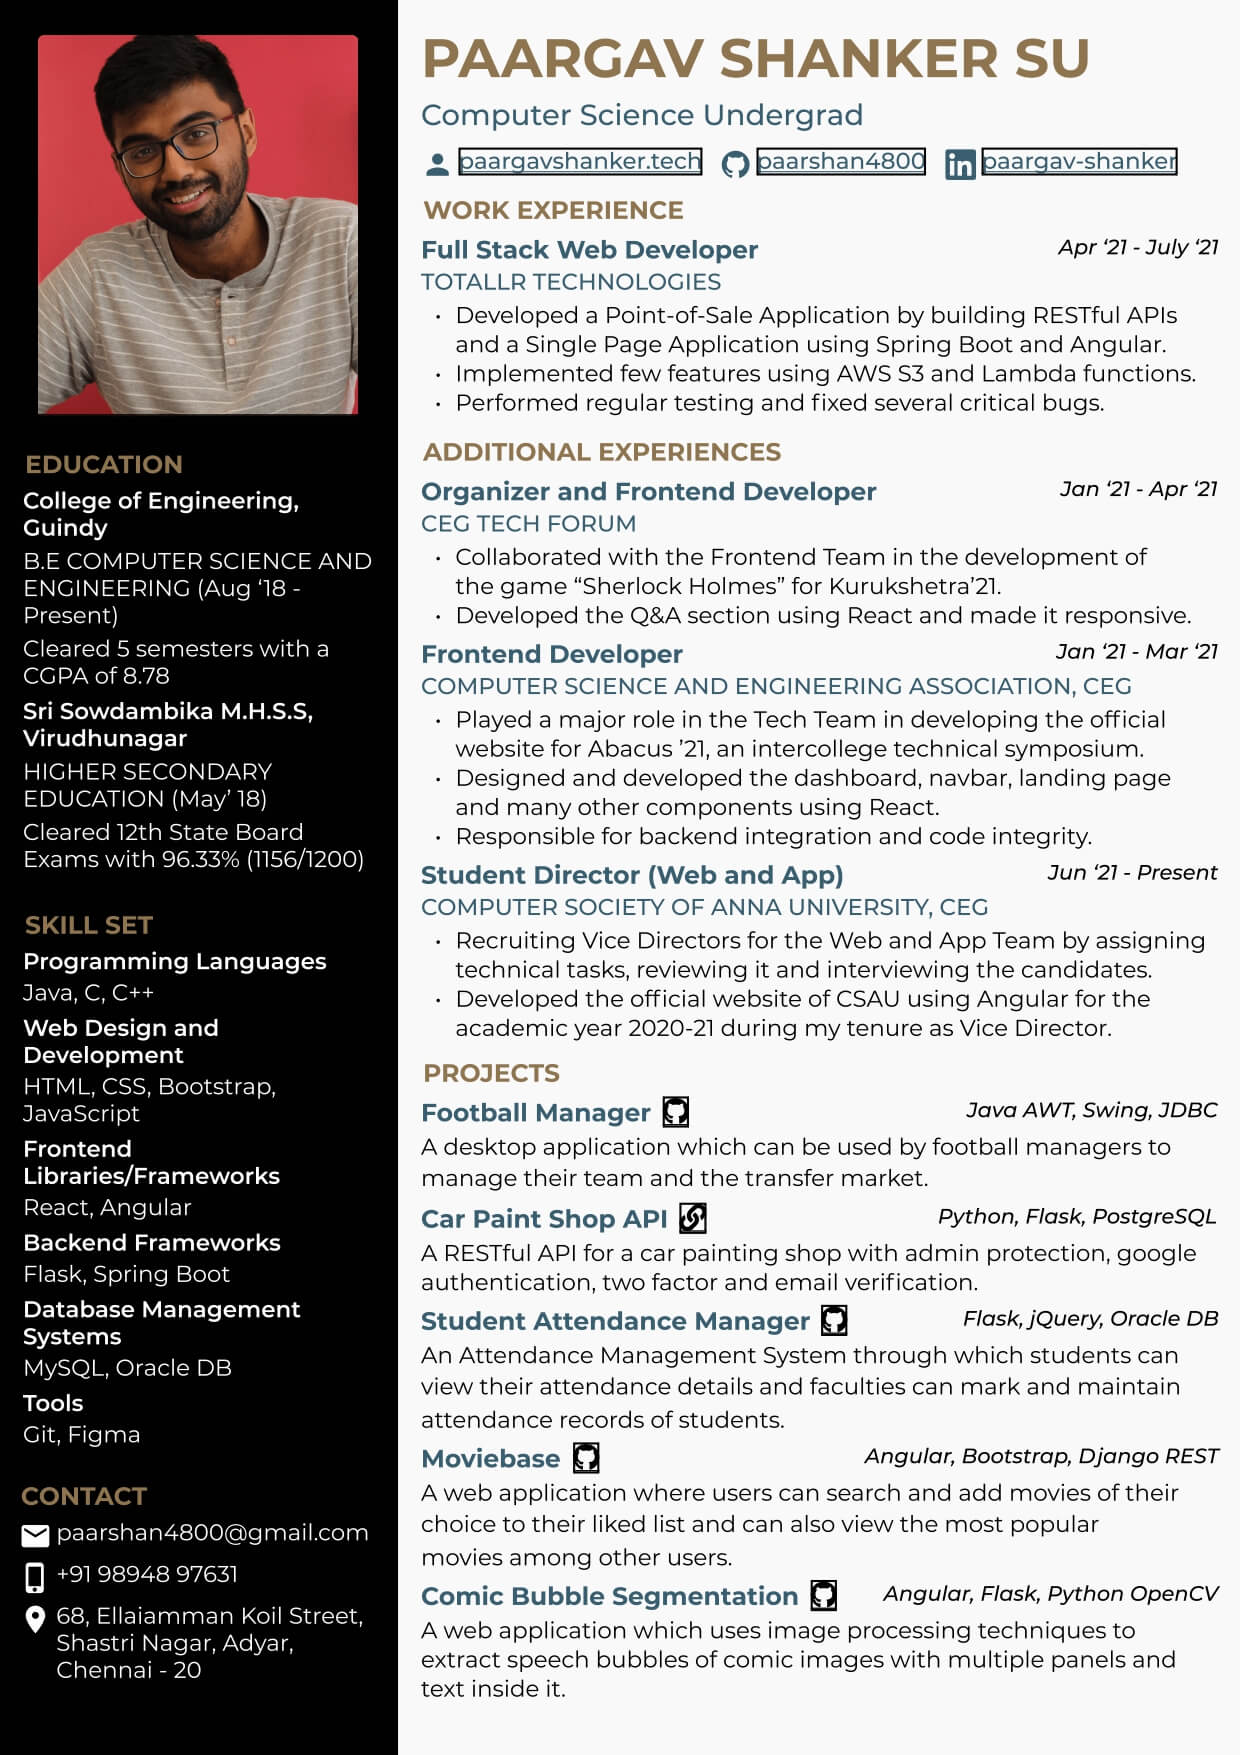
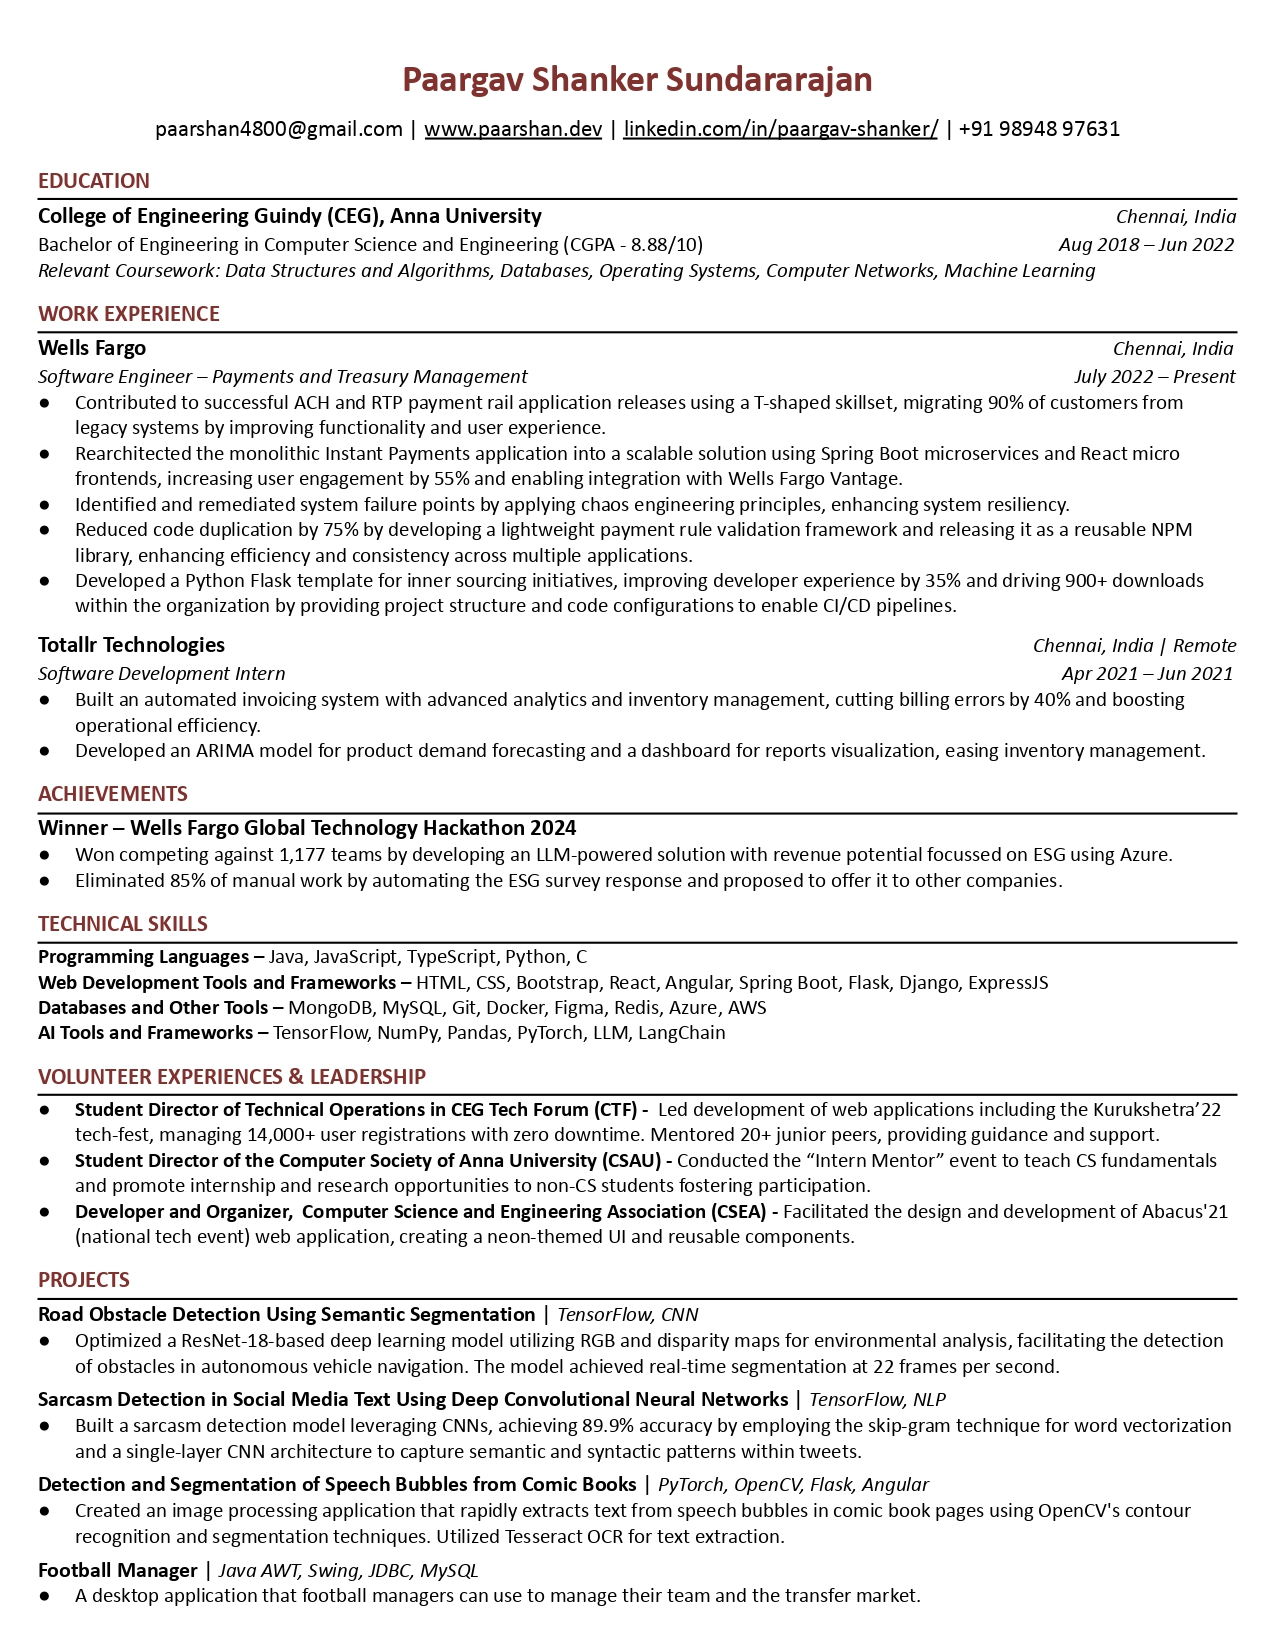
updated data 29/11/24

diff --git a/src/sections/Projects/Projects.js b/src/sections/Projects/Projects.js
@@ -14,12 +14,12 @@ function Projects() {
   let projectsRef = new Array(PROJECTS.length);
   let contentWrapperRef = useRef(null);
 
-  const [projectsView, setprojectsView] = useState("horizontal");
+  const [projectsView, setprojectsView] = useState("grid");
 
   let timeline = gsap.timeline();
 
   useEffect(() => {
-    contentWrapperRef.current.classList.add(`${styles.horizontal_content}`);
+    // contentWrapperRef.current.classList.add(`${styles.horizontal_content}`);
 
     for (let i = 0; i < projectsRef.length; i++) {
       timeline.from(projectsRef[i], {
@@ -58,7 +58,7 @@ function Projects() {
   return (
     <section name="projects" ref={sectionRef} className={`${styles.wrapper}`}>
       <SectionHeader name={"projects"} />
-      <div className={`${styles.view_container}`}>
+      {/* <div className={`${styles.view_container}`}>
         <span>
           <MdViewCarousel
             className={`${styles.view_icon}`}
@@ -77,9 +77,9 @@ function Projects() {
             }}
           />
         </span>
-      </div>
+      </div> */}
 
-      <div ref={contentWrapperRef} className={`${styles.content_wrapper}`}>
+      <div ref={contentWrapperRef} className={`${styles.content_wrapper} ${styles.grid_content}`}>
         {PROJECTS.map((project, key) => {
           return (
             <ProjectCard

diff --git a/src/data/Profile.js b/src/data/Profile.js
@@ -1,6 +1,6 @@
 export const PROFILE = [
-  "Hey there! I am Paargav Shanker, a final year student currently pursuing Bachelor's Degree in Computer Science and Engineering at College of Engineering, Guindy.",
-  "This website was made to showcase all of what I can do and plan to do. Fuelled with passion for developing applications, I have a desire to excel and continuously improve in my work.",
-  "Highly trained in the software development process, I enjoy creating scalable platforms and consumer-facing applications in a systematic & structured way. I am skilled in an array of technologies including React, Angular, Flask, Java and most of the latest development tools. Writing clean and quality code is my pet obsession - something that can never be controlled.",
-  "With a deep understanding and interest in development and a commitment in developing both as a developer and as a person, I am excited to see what is next in store for me.",
+  "Hey there! I'm Paargav Shanker, a software engineer at Wells Fargo, building cool and resilient banking products.",
+  "I love creating scalable full-stack solutions that actually work (and don't break under pressure!).",
+  "Coding, problem-solving, and making tech magic happen is my thing.",
+  "This site? Just a little corner to show you what I'm all about!",
 ];

diff --git a/src/data/Experience.js b/src/data/Experience.js
@@ -1,17 +1,24 @@
 export const EXPERIENCES = [
   {
+    organization: "Wells Fargo",
+    logo: "wellsfargo.png",
+    duration: "Jul '22 - Present",
+    role: "Software Engineer",
+    workedIn: "React, SpringBoot, Microservices, Microfrontends",
+  },
+  {
     organization: "Totallr Technologies",
     logo: "totallr.png",
-    duration: "Apr '21 - Jul '21",
+    duration: "Apr '21 - Jun '21",
     role: "Full Stack Web Developer",
     workedIn: "Angular, Spring Boot, AWS S3",
   },
   {
     organization: "CEG Tech Forum",
     logo: "ctf.png",
-    duration: "Jan '21 - Apr '21",
-    role: "Organizer and Frontend Developer",
-    workedIn: "React",
+    duration: "Dec '21 - Jun '22",
+    role: "Student Director of Technical Operations",
+    workedIn: "React, ExpressJS, AWS",
   },
   {
     organization: "Computer Science and Engineering Association, CEG",
@@ -23,8 +30,8 @@ export const EXPERIENCES = [
   {
     organization: "Computer Society of Anna University",
     logo: "csau.png",
-    duration: "Aug '20 - Present",
-    role: "Student Director (Web and App)",
-    workedIn: "Angular, Bootstrap",
+    duration: "Jun '21 - Jun '22",
+    role: "Student Director",
+    workedIn: "Angular",
   },
 ];

diff --git a/src/components/TypeWriter/TypeWriter.js b/src/components/TypeWriter/TypeWriter.js
@@ -9,7 +9,7 @@ const TypeWriter = forwardRef((props, ref) => {
         <span>const</span> paargav: Array&lt;<span>Ingredients</span>&gt; = [
       </p>
       <p className={`${styles.second_line}`}>
-        <span>Undergrad</span>, <span>Developer</span>,
+        <span>Undergrad</span>, <span>Software Engineer</span>,
       </p>
       <p className={`${styles.third_line}`}>
         <span>Sugar</span>, <span>Spice</span>, ...<span>everythingNice</span>,

diff --git a/src/data/Education.js b/src/data/Education.js
@@ -2,7 +2,7 @@ export const EDUCATIONS = [
   {
     name: "College of Engineering, Guindy",
     logo: "ceg.png",
-    duration: "2018 - Present",
+    duration: "2018 - 2022",
     degree: "Bachelor's Degree in Computer Science and Engineering",
     location: "Chennai, Tamil Nadu",
   },

diff --git a/src/sections/Projects/Projects.module.css b/src/sections/Projects/Projects.module.css
@@ -6,6 +6,9 @@
 .content_wrapper {
   display: grid;
   column-gap: var(--mb-5);
+  grid-template-columns: repeat(100, minmax(275px, 320px));
+  width: 95%;
+  overflow-x: auto;
 }
 
 .content_wrapper::-webkit-scrollbar-track {

diff --git a/src/data/Resume.js b/src/data/Resume.js
@@ -1,2 +1,2 @@
 export const RESUME =
-  "https://drive.google.com/file/d/1MWKJWw3-7itI7PZCcBZLcCxXIwJJffaG/view?usp=sharing";
+  "https://drive.google.com/file/d/1I7m8KBX52977xs93AnGZvBOwjGxhoGvT/view?usp=sharing";
